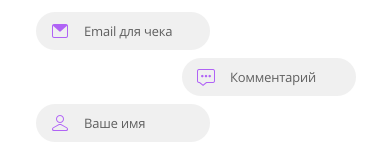
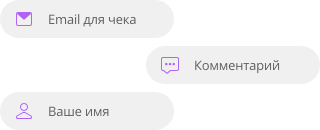
Second section done for xs screen

diff --git a/src/pages/developers.html b/src/pages/developers.html
@@ -24,20 +24,20 @@ layout: default
   <div class="page-section__container">
     <div class="widget-details">
       {{{ info-box title="Все способы оплаты в одном виджете"  text="Банковские карты: Visa, MasterCard, Maestro, Мир.
-      Оплата с баланса мобильного телефона. Электронные кошельки." count="1" mods="align-left-lg, no-mg-b" }}}
+      Оплата с баланса мобильного телефона. Электронные кошельки." icon='{"name": "number-1", "color": "purple"}' mods="align-left-lg, no-mg-b" }}}
       <div class="widget-details__tab">
-
+        {{{ img name="widget-tabs" breakpoints='{"sm": true}'}}}
       </div>
       {{{ info-box title="Настройка дополнительных полей" text="Комментарии клиента, email для чека, ФИО, адрес и др.
-      Настройка плейсхолдеров и масок для полей." count="2" mods="align-left-lg, no-mg-b" }}}
+      Настройка плейсхолдеров и масок для полей." icon='{"name": "number-2", "color": "purple"}' mods="align-left-lg, no-mg-b" }}}
       <div class="widget-details__fields">
-
+        {{{ img name="widget-fields" breakpoints='{"sm": true}'}}}
       </div>
       {{{ info-box title="Удобный ввод" text="Проверка вводимых данных <br />Подсказки при неверном вводе
       <br />  Браузерное автозаполнение <br />  Перевод курсора на следующее поле <br />  Определение платёжной системы
-      <br />  Определение операторов сотовой связи" count="3" mods="align-left-lg, no-mg-b" link='{"text": "Посмотреть виджет", "dataModal": "widgetModal", "color": "purple"}'}}}
+      <br />  Определение операторов сотовой связи" icon='{"name": "number-3", "color": "purple"}' mods="align-left-lg, no-mg-b" link='{"text": "Посмотреть виджет", "dataModal": "widgetModal", "color": "purple"}'}}}
       <div class="widget-details__card">
-
+        {{{ img name="widget-card" breakpoints='{"sm": true}'}}}
       </div>
     </div>
   </div>

diff --git a/src/assets/scss/components/_widget-details.scss b/src/assets/scss/components/_widget-details.scss
@@ -8,33 +8,85 @@
   @include media-breakpoint-up(lg) {
     grid-template-columns: repeat(2, 1fr);
     align-items: center;
-    justify-items: end;
+    //justify-items: end;
     grid-column-gap: 50px;
     grid-row-gap: 85px;
   }
 
-  //& > *:nth-child(even) {
-  //  margin-top: 45px;
-  //  margin-bottom: 85px;
-  //
-  //  @include media-breakpoint-up(lg) {
-  //    margin: 0;
-  //  }
-  //}
-  //
-  //& > *:last-child {
-  //  margin-bottom: 0;
-  //}
+  & > *:nth-child(even) {
+    margin-top: 42px;
+    margin-bottom: 84px;
+
+    @include media-breakpoint-up(lg) {
+      margin: 0;
+    }
+  }
+
+  & > *:last-child {
+    margin-top: 46px;
+    margin-bottom: 0;
+  }
+
 
   &__tab {
+    width: 320px;
+    height: 100px;
+    display: flex;
+    align-items: center;
+    justify-content: center;
+    border: 1px solid #d9d9d9;
+    border-radius: 70px;
+    box-shadow: -2px 26px 40px 1px rgba(0, 0, 0, 0.08), 0 1px 7px 0 rgba(0, 0, 0, 0.09);
+    box-sizing: border-box;
 
+    @include media-breakpoint-up(sm) {
+      width: 386px
+    }
+
+    img {
+      width: 222px;
+      height: 26px;
+
+      @include media-breakpoint-up(sm) {
+        width: 277px;
+      }
+    }
   }
 
   &__fields {
+    display: flex;
+    flex-direction: column;
+    width: 100%;
+    max-width: 320px;
 
+    @include media-breakpoint-up(sm) {
+      max-width: 375px;
+    }
   }
 
   &__card {
+    width: 100%;
+    max-width: 320px;
+    height: 210px;
+    display: flex;
+    align-items: center;
+    justify-content: center;
+    border: solid 1px #d9d9d9;
+    border-radius: 50px;
+    box-shadow: -2px 26px 36px 1px rgba(0, 0, 0, 0.08), 0 1px 7px 0 rgba(0, 0, 0, 0.09);
+    box-sizing: border-box;
 
+    @include media-breakpoint-up(sm) {
+      max-width: 386px;
+    }
+  }
+
+  &__card img {
+    width: 272px;
+    height: 107px;
+
+    @include media-breakpoint-up(sm) {
+      width: 324px;
+    }
   }
 }

diff --git a/src/helpers/info-box.js b/src/helpers/info-box.js
@@ -29,6 +29,21 @@ module.exports = function(options) {
     let svg = ``;
 
     switch (icon.name) {
+      case 'number-1':
+        svg = `<svg  class="icon ${icon.color ? `icon--${icon.color}` : ``}" width="37" height="37">
+                 <use xlink:href="${root}assets/img/symbol/sprite.svg#number-1">
+              </svg>`
+        break;
+      case 'number-2':
+        svg = `<svg  class="icon ${icon.color ? `icon--${icon.color}` : ``}" width="37" height="37">
+                 <use xlink:href="${root}assets/img/symbol/sprite.svg#number-2">
+              </svg>`
+        break;
+      case 'number-3':
+        svg = `<svg  class="icon ${icon.color ? `icon--${icon.color}` : ``}" width="37" height="37">
+                 <use xlink:href="${root}assets/img/symbol/sprite.svg#number-3">
+              </svg>`
+        break;
       case 'security':
         svg = `<svg  class="icon ${icon.color ? `icon--${icon.color}` : ``}" width="38" height="48">
                  <use xlink:href="${root}assets/img/symbol/sprite.svg#security">

diff --git a/src/assets/scss/components/_info-box.scss b/src/assets/scss/components/_info-box.scss
@@ -49,7 +49,7 @@
     color: var(--gray-color);
 
     svg + & {
-      margin-top: 18px;
+      margin-top: 12px;
     }
 
     @include media-breakpoint-up(md) {
